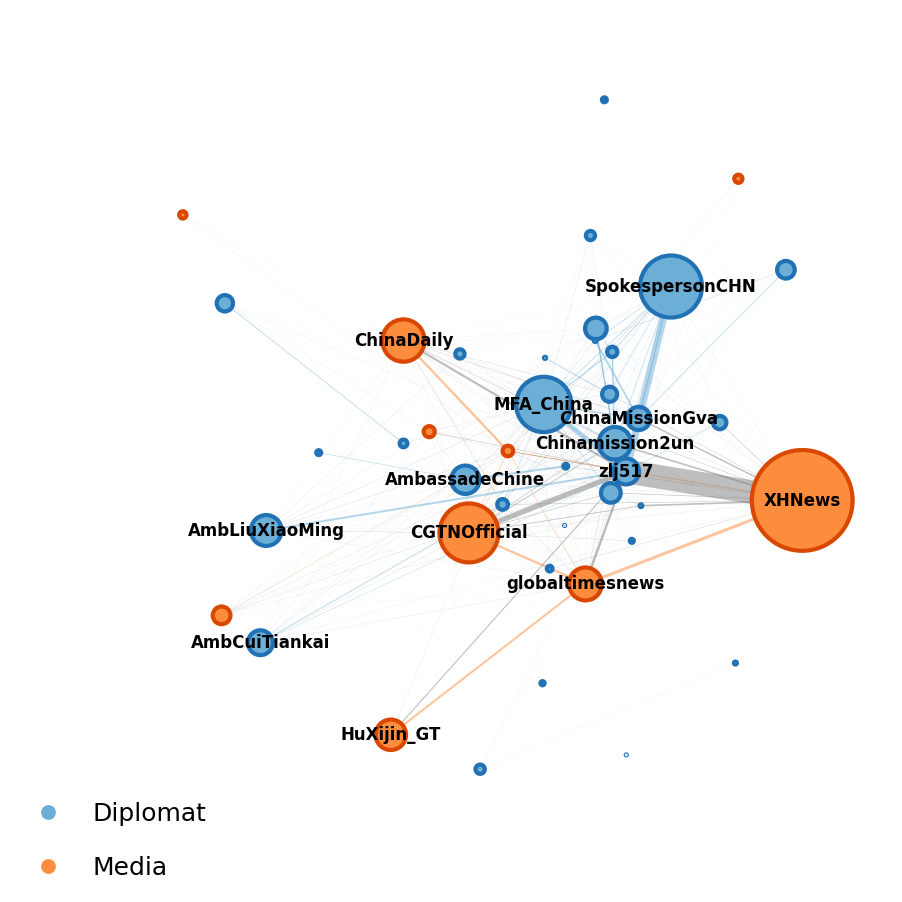
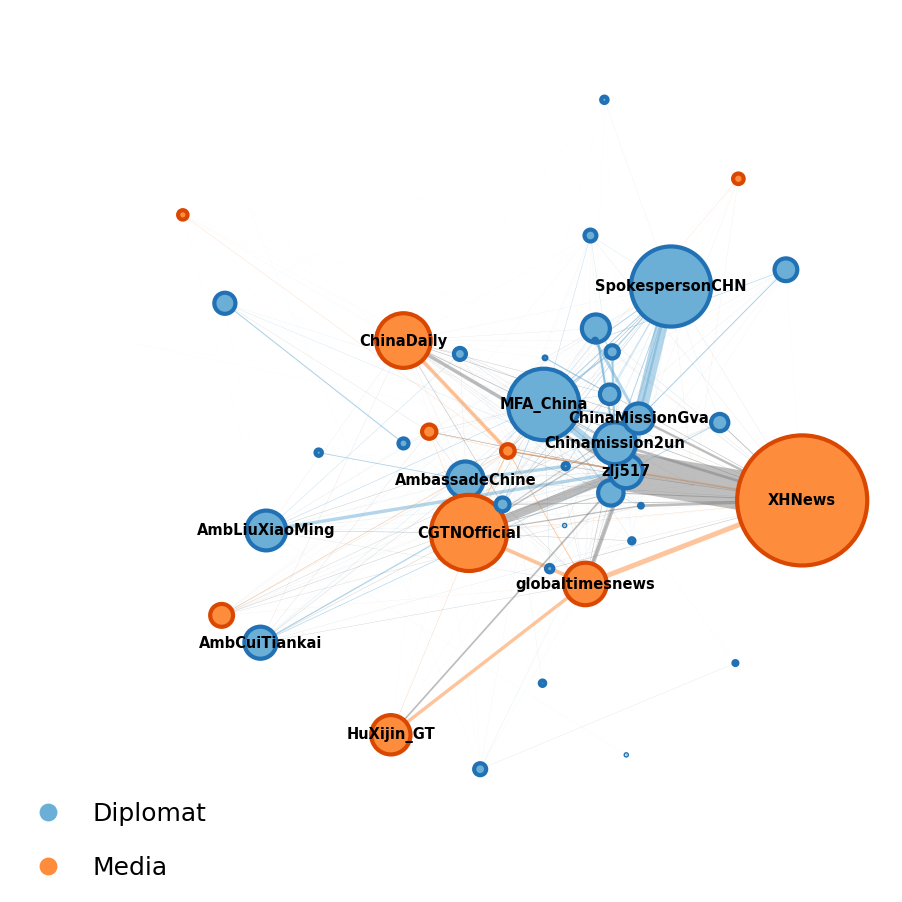
more plot changes

diff --git a/networks/src/network_main.py b/networks/src/network_main.py
@@ -123,7 +123,7 @@ def plot_network(G, color_dct, node_color, nodeedge_color, edge_color, labeldict
 
     # labels 
     label_options = {"edgecolor": "none", "facecolor": "white", "alpha": 0}
-    nx.draw_networkx_labels(G,pos,labels=labeldict,font_size=4, bbox=label_options, font_weight = 'bold')
+    nx.draw_networkx_labels(G,pos,labels=labeldict,font_size=3.5, bbox=label_options, font_weight = 'bold')
 
     # formatting & save
     lines, labels = get_legend(node_size, color_dct)
@@ -206,8 +206,8 @@ def main(n_labels, infile, outfolder):
 
     ''' mentions '''
     print('--> generating mentions plot')
-    node_divisor = 600*10
-    edge_divisor = 100*10
+    node_divisor = 600*6
+    edge_divisor = 100*6
     title = 'Diplomats and Media sub-network (nodesize: total number of mentions)'
     filename = 'network_focus_mentions'
     nudge_triple = [
@@ -236,8 +236,8 @@ def main(n_labels, infile, outfolder):
 
     ## unweighted degree
     print('--> generating unweighted degree plot')
-    node_divisor = 0.05*10
-    edge_divisor = 100*10
+    node_divisor = 0.05*6
+    edge_divisor = 100*6
     title = 'Diplomats and Media sub-network (nodesize: number of neighbors)'
     filename = 'network_focus_unweighted_degree'
 
@@ -261,8 +261,8 @@ def main(n_labels, infile, outfolder):
 
     ## weighted degree 
     print('--> generating weighted degree plot')
-    node_divisor = 2.5*10
-    edge_divisor = 100*10
+    node_divisor = 2.5*6
+    edge_divisor = 100*6
     title = 'Diplomats and Media sub-network (nodesize: number of neighbors weighted)'
     filename = 'network_focus_weighted_degree'
 
@@ -286,8 +286,8 @@ def main(n_labels, infile, outfolder):
 
     ''' in-degree '''
     print('--> generating in-degree plot')
-    node_divisor = 1.5*10
-    edge_divisor = 100*10
+    node_divisor = 1.5*6
+    edge_divisor = 100*6
     title = 'Diplomats and Media sub-network (nodesize: in-degree -- inwards)'
     filename = 'network_focus_in_degree'
 
@@ -311,8 +311,8 @@ def main(n_labels, infile, outfolder):
 
     ## out-degree
     print('--> generating out-degree plot')
-    node_divisor = 1.5*10
-    edge_divisor = 100*10
+    node_divisor = 1.5*6
+    edge_divisor = 100*6
     title = 'Diplomats and Media sub-network (nodesize: out-degree -- outwards)'
     filename = 'network_focus_out_degree'
 
